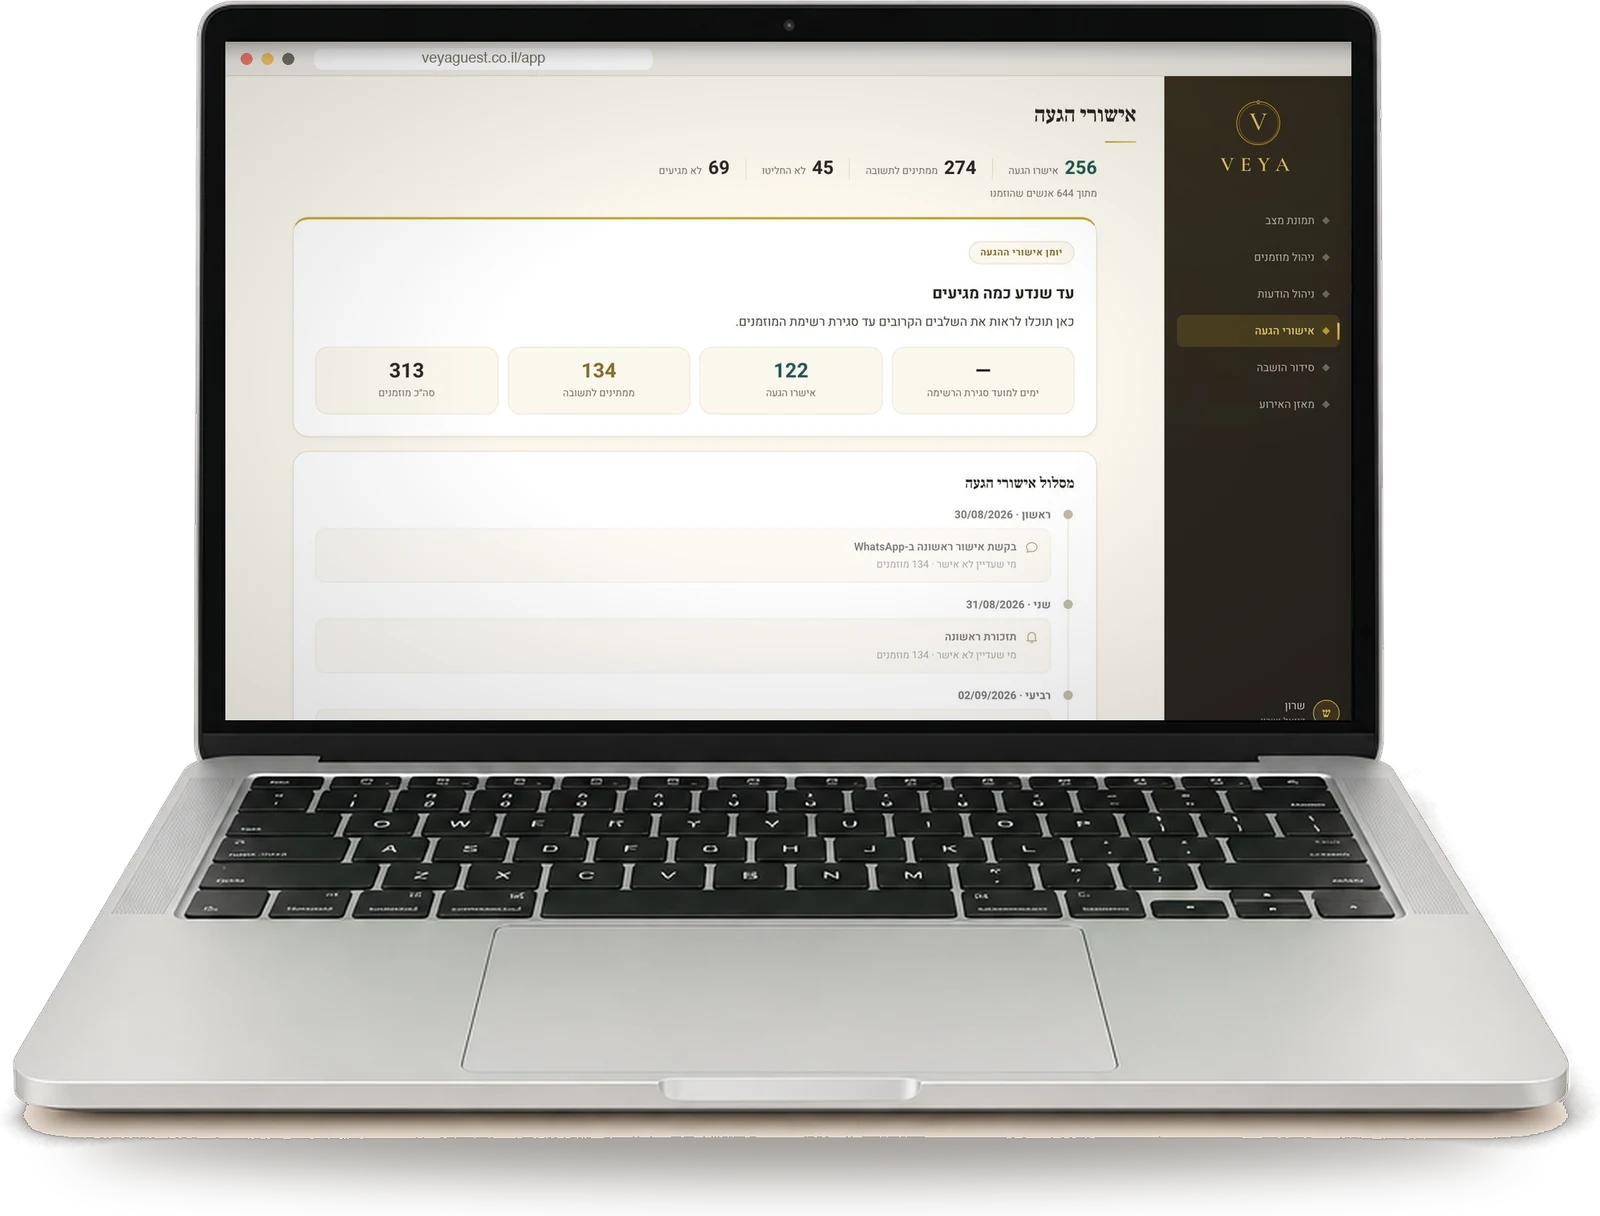
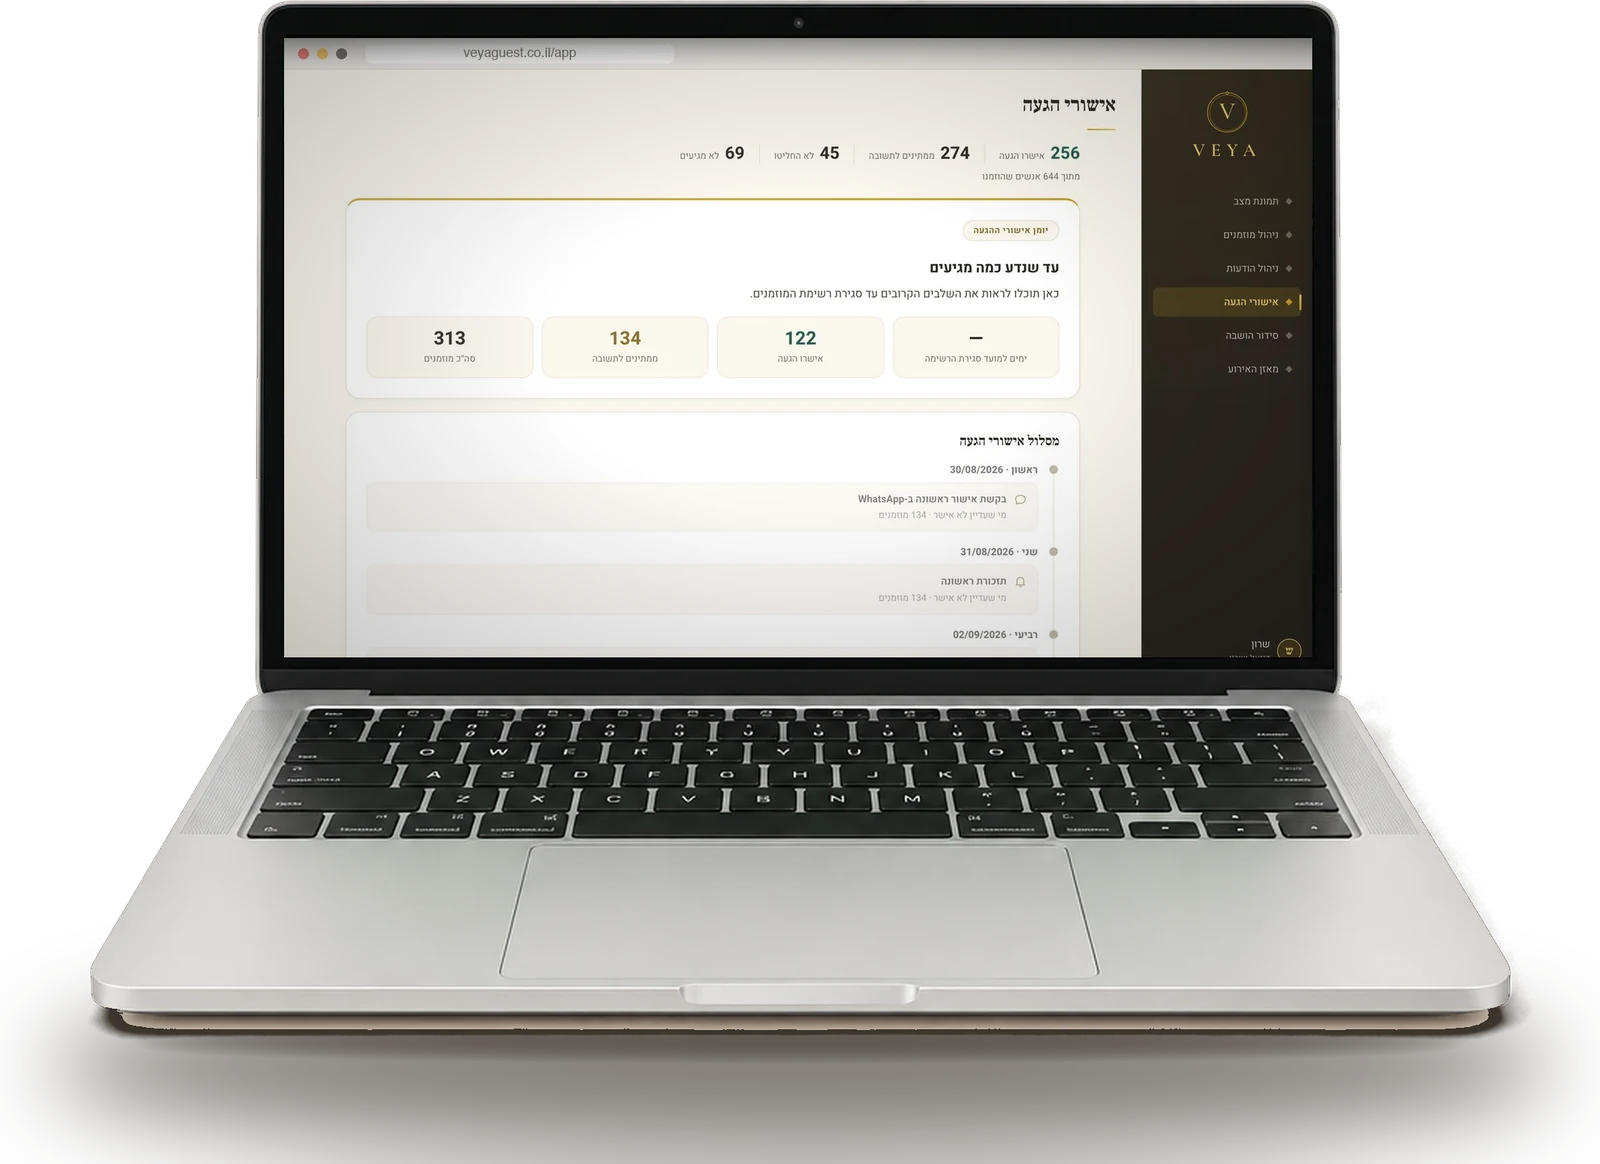
דף הבית: הצללות חזקות למחשב הנייד (במקום סצנת השולחן, לבקשת הבעלים)
חזרה למחשב החתוך, עם צל שמורגש: קו מגע כהה מתחת לבסיס, צל קרוב מתחתיו וצל
רחב ורך קדימה על המשטח; רצועת הבז' מתחת לבסיס (הצל של התמונה המקורית) הפכה
לצל שקוף אמיתי. ברק והכהיית קצוות חזקים מעט יותר על המסך.

diff --git a/frontend/index.html b/frontend/index.html
@@ -2209,7 +2209,7 @@ html[data-a11y-motion] .lp-enter, html[data-a11y-motion] .lp-rv { opacity: 1; tr
       <a class="lp-link lp-more" href="/features/guests/">על רשימת המוזמנים</a>
     </div>
     <div class="lp-scene">
-      <figure class="lp-device lp-rv"><img loading="lazy" decoding="async" src="/product/mac-paste-review.webp" width="1600" height="1156" alt="בדיקת רשימה שהודבקה: שמות, טלפונים, צד, קבוצה וכמות, על מסך מחשב נייד"></figure>
+      <figure class="lp-device lp-rv"><img loading="lazy" decoding="async" src="/product/mac-paste-review.webp" width="1600" height="1179" alt="בדיקת רשימה שהודבקה: שמות, טלפונים, צד, קבוצה וכמות, על מסך מחשב נייד"></figure>
       <img loading="lazy" decoding="async" class="lp-person lp-rv" style="transition-delay:200ms" src="/people/planning-together.webp" alt="זוג מול המחשב">
       <div class="lp-chip lp-a lp-rv" style="transition-delay:350ms"><b class="lp-sm">5 מתוך 6 שורות</b>נבחרו לייבוא</div>
     </div>
@@ -2226,7 +2226,7 @@ html[data-a11y-motion] .lp-enter, html[data-a11y-motion] .lp-rv { opacity: 1; tr
       <a class="lp-link lp-more" href="/features/rsvp/">על אישורי ההגעה והמעקב הטלפוני</a>
     </div>
     <div class="lp-scene">
-      <figure class="lp-device lp-rv"><img loading="lazy" decoding="async" src="/product/mac-rsvp.webp" width="1600" height="1156" alt="מסך אישורי ההגעה: ספירה ומסלול של בקשות, תזכורות וסבבי שיחות, על מסך מחשב נייד"></figure>
+      <figure class="lp-device lp-rv"><img loading="lazy" decoding="async" src="/product/mac-rsvp.webp" width="1600" height="1179" alt="מסך אישורי ההגעה: ספירה ומסלול של בקשות, תזכורות וסבבי שיחות, על מסך מחשב נייד"></figure>
       <div class="lp-chip lp-a lp-rv" style="transition-delay:250ms"><b class="lp-sm">סבב שיחות ראשון</b>מי שעדיין לא אישר · 134 מוזמנים</div>
       <div class="lp-chip lp-b lp-rv" style="transition-delay:400ms"><b class="lp-green">122</b>אישרו הגעה</div>
     </div>
@@ -2261,7 +2261,7 @@ html[data-a11y-motion] .lp-enter, html[data-a11y-motion] .lp-rv { opacity: 1; tr
       <a class="lp-link lp-more" href="/features/seating/">על סידור ההושבה</a>
     </div>
     <div class="lp-scene">
-      <figure class="lp-device lp-rv"><img loading="lazy" decoding="async" src="/product/mac-seating.webp" width="1600" height="1156" alt="מסך סידור ההושבה: מפת האולם עם השולחנות ורשימת המוזמנים, על מסך מחשב נייד"></figure>
+      <figure class="lp-device lp-rv"><img loading="lazy" decoding="async" src="/product/mac-seating.webp" width="1600" height="1179" alt="מסך סידור ההושבה: מפת האולם עם השולחנות ורשימת המוזמנים, על מסך מחשב נייד"></figure>
       <div class="lp-chip lp-a lp-rv" style="transition-delay:250ms"><b class="lp-sm">אלון שפירא ✓</b>אישרו הגעה · 4 אנשים · שולחן 2</div>
       <div class="lp-chip lp-goldbtn lp-b lp-rv" style="transition-delay:400ms">הושבה בקליק</div>
     </div>
